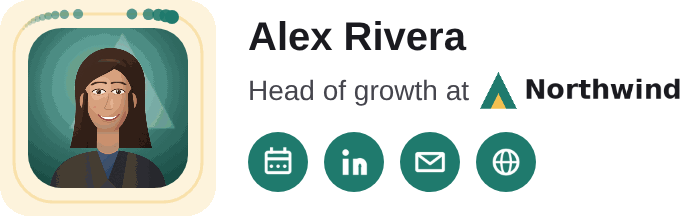
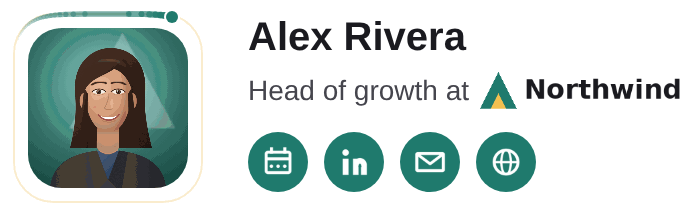
Redraw comet, ripple and still; white tile only
Claude-Session: https://claude.ai/code/session_01XxM5R2nJxhmQE38KoyqriW

Changed region(s): [[0.0, 0.0, 0.3358, 1.0]]

diff --git a/src/orbit.js b/src/orbit.js
@@ -1,8 +1,8 @@
 // Turns a photo into the moving signature picture, made in the browser with
 // gifenc; nothing is uploaded. The photo sits in a circle, a rounded square or
-// a square, on a small tile with see-through corners (so in a dark inbox it
+// a square, on a white tile with see-through corners (so in a dark inbox it
 // reads as a little card), with one of four designs around it: dots on two
-// orbits, a comet running round, a pulse, or a still outline.
+// orbits, a comet running round, ripples, or a still two-colour ring.
 
 // 216px drawn, shown at 108 for sharp phone screens; 48 frames of 120ms is
 // about 6 seconds a loop.
@@ -46,21 +46,45 @@ export function drawFrame(ctx, photo, t, o) {
       dot(ctx, at(d[1] + 2 * Math.PI * d[4] * t, d[0], shape), d[2], d[3]);
     }
   } else if (design === "comet") {
-    ctx.strokeStyle = second; ctx.globalAlpha = 0.35; ctx.lineWidth = 3;
+    // a faint track, and a comet whose tail thickens and brightens towards
+    // its head, one whole turn per loop
+    ctx.strokeStyle = second; ctx.globalAlpha = 0.28; ctx.lineWidth = 2;
     path(ctx, R + 14, shape); ctx.stroke(); ctx.globalAlpha = 1;
-    for (let k = 14; k >= 0; k--) {
-      dot(ctx, at(2 * Math.PI * t - Math.PI / 2 - k * 0.09, R + 14, shape), 7 - k * 0.4, accent, 1 - k / 16);
+    const head = 2 * Math.PI * t - Math.PI / 2, N = 36, span = 1.9;
+    ctx.lineCap = "round"; ctx.strokeStyle = accent;
+    for (let k = 0; k < N; k++) {
+      const f = k / N, a0 = head - span * (1 - f), a1 = head - span * (1 - (k + 1) / N);
+      const [x0, y0] = at(a0, R + 14, shape), [x1, y1] = at(a1, R + 14, shape);
+      ctx.globalAlpha = f * f; ctx.lineWidth = 1 + 6 * f;
+      ctx.beginPath(); ctx.moveTo(x0, y0); ctx.lineTo(x1, y1); ctx.stroke();
     }
+    ctx.globalAlpha = 1;
+    const h = at(head, R + 14, shape);
+    dot(ctx, h, 8, "#ffffff"); dot(ctx, h, 6, accent);
+    ctx.lineCap = "butt";
   } else if (design === "pulse") {
+    // a steady ring, and two soft ripples leaving it, eased so they slow as
+    // they fade
+    ctx.strokeStyle = accent; ctx.lineWidth = 3;
+    path(ctx, R + 5, shape); ctx.stroke();
     for (const [off, col] of [[0, accent], [0.5, second]]) {
-      const p = (t + off) % 1;
-      ctx.strokeStyle = col; ctx.lineWidth = 6 - 4 * p; ctx.globalAlpha = 1 - p;
-      path(ctx, R + 4 + 24 * p, shape); ctx.stroke();
+      const p = (t + off) % 1, e = 1 - (1 - p) ** 2;
+      ctx.strokeStyle = col; ctx.lineWidth = 3.5 - 2.5 * p; ctx.globalAlpha = 0.85 * (1 - p);
+      path(ctx, R + 6 + 20 * e, shape); ctx.stroke();
     }
     ctx.globalAlpha = 1;
   } else {
-    ctx.strokeStyle = accent; ctx.lineWidth = 5;
-    path(ctx, R + 9, shape); ctx.stroke();
+    // still: a ring blending the two colours, and one small dot, so the
+    // first frame Outlook shows looks finished on its own
+    let g = accent;
+    if (ctx.createConicGradient) {
+      g = ctx.createConicGradient(-Math.PI / 2, C, C);
+      g.addColorStop(0, accent); g.addColorStop(0.5, second); g.addColorStop(1, accent);
+    }
+    ctx.strokeStyle = g; ctx.lineWidth = 5;
+    path(ctx, R + 8, shape); ctx.stroke();
+    const d = at(-Math.PI / 4, R + 8, shape);
+    dot(ctx, d, 9, "#ffffff"); dot(ctx, d, 6.5, second);
   }
   ctx.save();
   path(ctx, R, shape); ctx.clip();

diff --git a/src/app.js b/src/app.js
@@ -15,19 +15,18 @@ const form = $("#maker");
 const KEY = "orbit-signature/3";
 const TEXT = ["name", "title", "company", "logo", "booking", "linkedin", "email", "website", "phone",
   "teamName", "teamEmail", "teamBooking", "teamPhone", "teamWebsite", "teamLinkedin",
-  "photoUrl", "iconBase", "badge1", "badge2", "badge3", "badgeLink", "accent", "second", "background",
+  "photoUrl", "iconBase", "badge1", "badge2", "badge3", "badgeLink", "accent", "second",
   "light", "warmth", "zoom", "uploadKey"];
 const RADIOS = ["shape", "design", "contact", "halo"];
 const SWATCHES = {
   accent: [["#9140b0", "Purple"], ["#1a1a1f", "Black"], ["#a92e64", "Pink"], ["#1f7a6d", "Teal"], ["#2f5bd3", "Blue"], ["#e2553f", "Coral"]],
   second: [["#f2c050", "Yellow"], ["#9140b0", "Purple"], ["#1a1a1f", "Black"], ["#7fd1c0", "Mint"], ["#f4a3b4", "Rose"], ["#a0a0aa", "Grey"]],
-  background: [["#ffffff", "White"], ["#f7f6f9", "Paper"], ["#f3e9f7", "Soft purple"], ["#fdf3dc", "Soft yellow"], ["#1a1a1f", "Black"], ["#2b1838", "Night purple"]],
 };
 // what config.person / config.team / config.brand fill in
 const PREFILL = {
   person: { name: "name", title: "title", email: "email", linkedin: "linkedin", booking: "booking", website: "website", phone: "phone" },
   team: { name: "teamName", email: "teamEmail", booking: "teamBooking", phone: "teamPhone", website: "teamWebsite", linkedin: "teamLinkedin" },
-  brand: { company: "company", logo: "logo", accent: "accent", second: "second", background: "background" },
+  brand: { company: "company", logo: "logo", accent: "accent", second: "second" },
 };
 
 const state = {
@@ -229,7 +228,7 @@ function makeGif() {
     await new Promise((r) => setTimeout(r, 20)); // let the message paint first
     if (run !== gifRun) return;
     const blob = makeOrbitGif(gifenc, state.photo, {
-      shape: val("shape"), design: val("design"), accent: val("accent"), second: val("second"), background: val("background"),
+      shape: val("shape"), design: val("design"), accent: val("accent"), second: val("second"), background: "#ffffff",
     });
     state.gif = blob; state.gifUrl = await readFile(blob); state.gifHosted = "";
     $("#download-gif").disabled = false;
@@ -354,7 +353,7 @@ function warnings() {
 /* ---- the form ---- */
 // these change the photo itself, the moving picture, or only the signature around it
 const PHOTO = new Set(["light", "warmth", "zoom", "halo"]);
-const GIF = new Set(["shape", "design", "background"]);
+const GIF = new Set(["shape", "design"]);
 form.addEventListener("input", (e) => {
   const n = e.target.name;
   if (e.target.type === "file") return;

diff --git a/index.html b/index.html
@@ -85,8 +85,6 @@
       <p class="hint brand-note" id="brand-note" aria-live="polite"></p>
       <div class="colours" data-for="accent"><span class="cl">Brand colour</span><div class="sws"></div><input type="color" name="accent" value="#9140b0" aria-label="Your own brand colour"></div>
       <div class="colours" data-for="second"><span class="cl">Second colour</span><div class="sws"></div><input type="color" name="second" value="#f2c050" aria-label="Your own second colour"></div>
-      <div class="colours" data-for="background"><span class="cl">Tile behind your photo</span><div class="sws"></div><input type="color" name="background" value="#ffffff" aria-label="Your own tile colour"></div>
-      <p class="hint">Only the moving photo sits on a tile, so it reads as a small card in a dark inbox too. The rest of the signature has no background.</p>
     </fieldset>
 
     <fieldset class="card">
@@ -174,7 +172,7 @@
         <legend>Design</legend>
         <label><input type="radio" name="design" value="orbit" checked><span class="ico"><svg viewBox="0 0 20 20"><circle cx="10" cy="10" r="4"/><circle cx="10" cy="2.5" r="1.6" class="f"/><circle cx="17" cy="13" r="1.3" class="f"/></svg></span>Orbit</label>
         <label><input type="radio" name="design" value="comet"><span class="ico"><svg viewBox="0 0 20 20"><circle cx="10" cy="10" r="7" opacity=".35"/><path d="M10 3a7 7 0 0 1 7 7"/><circle cx="17" cy="10" r="1.8" class="f"/></svg></span>Comet</label>
-        <label><input type="radio" name="design" value="pulse"><span class="ico"><svg viewBox="0 0 20 20"><circle cx="10" cy="10" r="4"/><circle cx="10" cy="10" r="7.5" opacity=".45"/></svg></span>Pulse</label>
+        <label><input type="radio" name="design" value="pulse"><span class="ico"><svg viewBox="0 0 20 20"><circle cx="10" cy="10" r="4"/><circle cx="10" cy="10" r="7.5" opacity=".45"/></svg></span>Ripple</label>
         <label><input type="radio" name="design" value="still"><span class="ico"><svg viewBox="0 0 20 20"><circle cx="10" cy="10" r="6"/></svg></span>Still</label>
       </fieldset>
     </fieldset>

diff --git a/src/config.js b/src/config.js
@@ -17,13 +17,13 @@ const DEFAULTS = {
   // Sent with each upload as X-Upload-Key, for a server that wants one.
   uploadKey: "",
   // What the form starts with: the signed-in person's details.
-  person: {},  // name, title, email, linkedin, booking, website, phone, quote
+  person: {},  // name, title, email, linkedin, booking, website, phone
   team: {},    // name, email, booking, phone, website, linkedin
   // The company's look: company, logo and mark (public URLs; mark is the symbol
-  // drawn behind the photo), accent, second, background, backdrop
+  // drawn behind the photo), accent, second, backdrop
   brand: {},
   // Fields people can't change, so every signature matches, e.g.
-  // ["company", "logo", "accent", "second", "background", "team"]
+  // ["company", "logo", "accent", "second", "team"]
   locked: [],
   // Where vendor/ (the model and onnxruntime) is served from.
   vendor: new URL("../vendor/", import.meta.url).href,

diff --git a/README.md b/README.md
@@ -80,12 +80,13 @@ backdrops are a press away. Touch up the light, warmth and zoom.
 
 ![The photo studio: the original, five brand backdrops with the symbol behind the head, and thirteen more](docs/studio.png)
 
-**How it moves**: four designs, three shapes, your colours. Only the photo
-sits on a small tile, so it reads as a little card in a dark inbox too.
+**How it moves**: four designs, three shapes, your colours. The photo sits on
+a white tile with see-through corners, so in a dark inbox it reads as a
+little card.
 
-| Orbit | Comet | Pulse | Still |
+| Orbit | Comet | Ripple | Still |
 |:---:|:---:|:---:|:---:|
-| <img src="docs/designs/orbit.gif" width="108" alt="Dots orbiting the photo"> | <img src="docs/designs/comet.gif" width="108" alt="A comet running round the photo"> | <img src="docs/designs/pulse.gif" width="108" alt="Rings pulsing out from the photo"> | <img src="docs/designs/still.gif" width="108" alt="A still photo with an outline"> |
+| <img src="docs/designs/orbit.gif" width="108" alt="Dots orbiting the photo"> | <img src="docs/designs/comet.gif" width="108" alt="A comet running round the photo"> | <img src="docs/designs/pulse.gif" width="108" alt="Soft rings rippling out from the photo"> | <img src="docs/designs/still.gif" width="108" alt="A still photo in a ring that blends the two colours"> |
 
 <p align="center"><img src="docs/demo.gif" width="560" alt="The same signature in four looks: an orbit, a comet, a pulse and a still frame, each with its own backdrop and colours"></p>
 
@@ -103,7 +104,6 @@ support inbox, say), or both, while your name still signs the email:
 **Your brand**
 - Upload your logo and, if it has one, its symbol.
 - Your brand colour and a second colour are read off the logo (the most used colourful shade, then one of a clearly different hue); change either, or pick from presets.
-- The colour of the small tile behind the moving photo, from presets or your own. The signature itself has no background.
 
 **Photo studio**
 - Cuts you out of the photo in the browser with a small model (U²-Net, 4.5 MB): soft hair edges, the old wall's colour taken out of the edges, and anything that isn't you (a chair, a lamp) dropped.

diff --git a/CHANGELOG.md b/CHANGELOG.md
@@ -9,9 +9,11 @@ All notable changes are listed here. The format follows
 ### Changed
 
 - The signature has no background box: name, title, logo and buttons sit on
-  the email's own background, and each button is its own link. The colour
-  that was the signature's background is now the small tile behind the
-  moving photo, whose corners are see-through.
+  the email's own background, and each button is its own link. The moving
+  photo sits on a white tile with see-through corners; the background colour
+  choice is gone.
+- Comet, pulse (now "Ripple") and still redrawn: a tapering comet tail, eased
+  ripples from a steady ring, and a still ring that blends the two colours.
 - The page takes the look of Pile Sprint: League Spartan throughout, a hero,
   solid colour icons, pill buttons.
 - A more lifelike sample person in the pictures.
